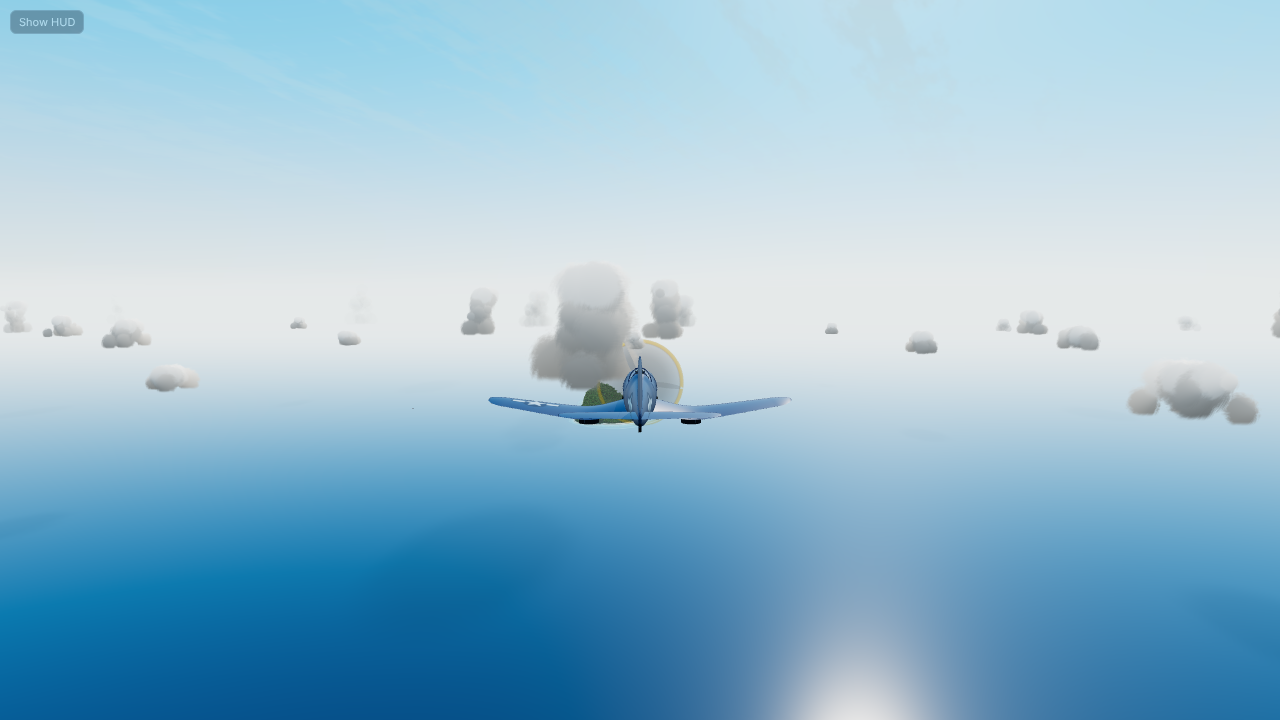
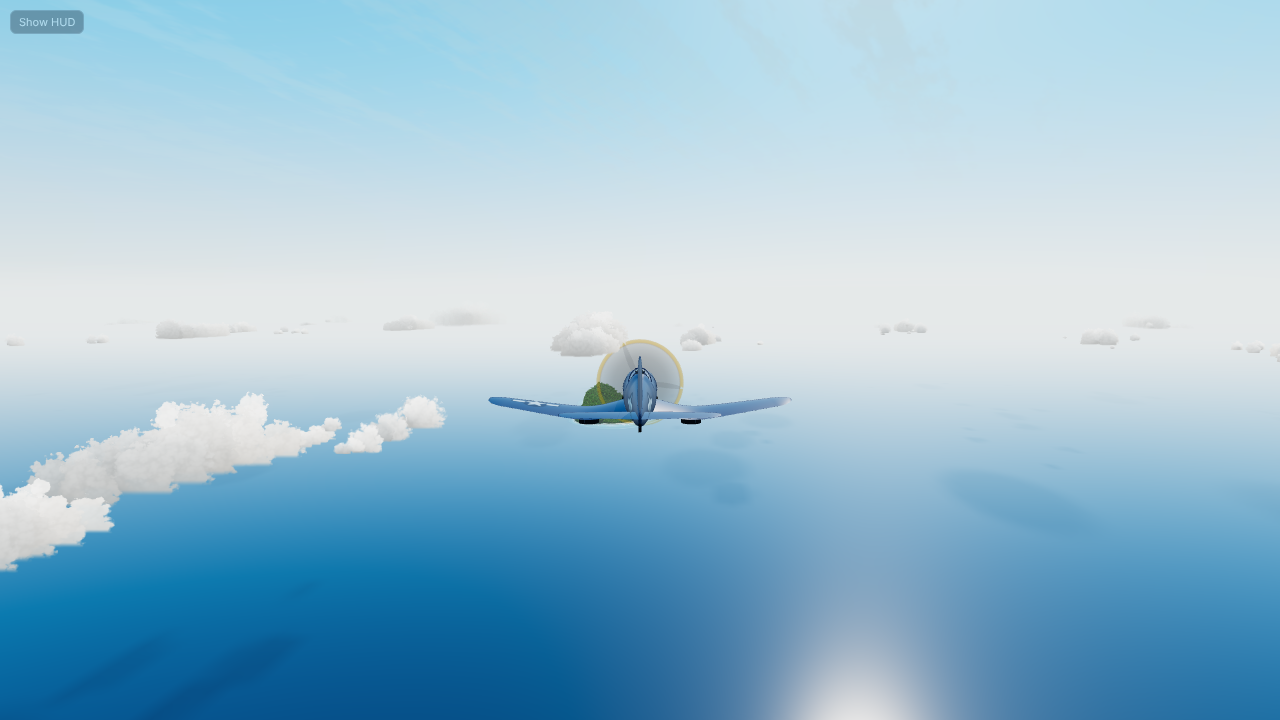
clouds

diff --git a/lib/longwind-world/src/cumulus.js b/lib/longwind-world/src/cumulus.js
@@ -3,17 +3,23 @@
 // Not raymarched (too costly for integrated GPUs). Each cloud is a cluster of soft sphere impostors ("puffs"): one
 // instanced quad per puff, camera-facing, with a sphere normal reconstructed per pixel. What makes them read as cumulus
 // instead of smoke:
-//   - real scale: bases at one condensation level (flat bottoms, cut per pixel), 300 m–1.5 km across, humilis /
-//     mediocris / congestus heights
+//   - real shapes and grouping: each cloud is a long low loaf (mostly 0.25-0.5 as tall as wide) on a flat base, with a
+//     few broad humps and cauliflower only along the upper edge; clouds come in families stretched along `streets`
+//     (radians): a dominant cloud, a loose row of neighbours that sometimes touch, and ragged scraps; `towers` of them
+//     (default 4%) carry a congestus turret
+//   - one noise field per cloud: every puff cuts its edge from the same lumps (300 m / 120 m / 45 m), sampled in a
+//     camera-facing frame that stays level and is anchored at the cloud's centre, so puffs merge into one surface
+//     instead of reading as separate balls; octaves fade once they're under a few pixels
 //   - sunlight with self-shadowing: per-puff transmittance toward the sun, precomputed on the CPU by marching through
-//     the other puffs (re-baked when the sun moves), plus a per-pixel term for the puff's own far side
-//   - grey-blue bases (ambient from the sea below, darker low in the cloud), bright sun-facing cauliflower tops
+//     the other puffs (re-baked when the sun moves); shaded sides stay bright (multiple scattering), lumps lighter
+//     than the crevices between them
+//   - grey-blue bases (ambient from the sea below), bright sun-facing tops
 //   - a silver lining (Henyey–Greenstein forward scatter) on thin edges when you look toward the sun
-//   - edges eroded by Long Wind's baked cloud noise (cellular + detail), locked to world space so they don't swim
 // Lighting ideas (lit/shade split, silver lining, aerial haze) follow Long Wind's painted clouds (src/world/sky.js,
 // github.com/jbang2004/long-wind, MIT). The impostor field itself is new.
 //
-//   const cu = createCumulus(THREE, { renderer, noise, tile: 24000, seaY: 0, base: 620, quality: 'med', seed: 7 })
+//   const cu = createCumulus(THREE, { renderer, noise, tile: 24000, seaY: 0, base: 620, quality: 'med', seed: 7,
+//                                     streets: 0.35, towers: 0.04 })
 //   scene.add(cu.mesh)
 //   cu.update(camera, anchor, { sunDir, sunCol, skyTop, skyBot })    — every frame (anchor: where the field centres)
 //   cu.clusters[i].op = 0..1                                          — host fade per cloud (storms, tile edges are automatic)
@@ -24,7 +30,7 @@
 //
 // The material includes three's fog chunks after tone mapping (fog blends in display space, as three does for every
 // built-in material), so distant clouds melt into the same haze as the terrain and sea.
-const Q = { low: { clusters: 70, puffK: 0.55 }, med: { clusters: 105, puffK: 0.75 }, high: { clusters: 150, puffK: 1 } };
+const Q = { low: { clusters: 70, puffK: 0.55, puffs: 2600 }, med: { clusters: 105, puffK: 0.75, puffs: 4300 }, high: { clusters: 150, puffK: 1, puffs: 6700 } };
 const TEXW = 256;
 
 function rngOf(seed) {
@@ -39,7 +45,7 @@ varying vec3 vC;          // puff centre (world)
 varying float vR;         // puff radius
 varying vec4 vCl;         // cluster centre at mid-height (xyz), base altitude (w)
 varying vec3 vExt;        // cluster half extents
-varying vec4 vInfo;       // sun transmittance, ambient occlusion, -, seed
+varying vec4 vInfo;       // sun transmittance, ambient occlusion, rag (0 body … 1 scrap), seed
 varying float vA;         // opacity after fades
 #include <fog_pars_vertex>
 ivec2 lwTc(float i, int k) { int n = int(i + 0.5) * 2 + k; return ivec2(n % ${TEXW}, n / ${TEXW}); }
@@ -58,7 +64,7 @@ void main() {
   vC = center; vR = r;
   vCl = vec4(c0.x, c0.y + c1.y, c0.z, c0.y);
   vExt = c1.xyz;
-  vInfo = vec4(p1.y, p1.z, 0.0, p1.w);
+  vInfo = vec4(p1.y, p1.z, c1.w, p1.w);
   vec4 mvPosition = viewMatrix * vec4(wp, 1.0);
   gl_Position = projectionMatrix * mvPosition;
   if (vA < 0.004) gl_Position = vec4(2.0, 2.0, 2.0, 1.0);    // culled: off the raster
@@ -88,40 +94,55 @@ void main() {
   vec3 Ns = normalize(right * vUv.x + up * vUv.y + toCam * (nz + 0.05));
   vec3 P = vC + Ns * vR;                                   // sphere surface point
   vec3 Qp = vC + (right * vUv.x + up * vUv.y) * vR;        // point on the impostor plane
-  // edge erosion: world-locked cellular + detail noise, so the cauliflower doesn't swim as you fly past
-  // lobes scale with the puff; the fine detail is fixed in metres so a cloud stays crisp when you're close to it
-  vec2 wq = P.xz + vec2(P.y * 0.61, -P.y * 0.43);
-  float lobe = texture2D(tNoise, wq / (vR * 3.4) + vInfo.w * 7.13 + vec2(uTime * 0.0004, 0.0)).b;
-  float fine = mix(texture2D(tNoise, wq / 140.0 + 0.37).a,                       // tops: horizontal projection
-                   texture2D(tNoise, vec2(P.x * 0.8 - P.z * 0.6, P.y) / 140.0 + 0.71).a,   // sides: vertical (no streaks)
-                   smoothstep(0.35, 0.75, 1.0 - abs(Ns.y)));
-  float ero = lobe * 0.65 + fine * 0.35;
-  float e0 = 0.5 + 0.38 * (ero - 0.5);
-  float a = 1.0 - smoothstep(e0, e0 + 0.32, d);
+  vec3 Nc = (P - vCl.xyz) / max(vExt, vec3(1.0));
+  vec3 Ncn = normalize(Nc);
+  // ONE field for the whole cloud: every puff cuts its edge from the same lumps, so the cauliflower comes from the noise
+  // and not from the puffs (per-puff noise made each one a separately wrapped ball). Impostors have no real surface to
+  // project onto (top/side projections streaked and ringed), so the field lives in a frame that faces the camera,
+  // stays level with the horizon (banking doesn't drag it) and is anchored at the cloud's centre: overlapping puffs
+  // agree exactly, nothing stretches, and the pattern only turns as you fly around the cloud.
+  vec3 cdir = normalize(vCl.xyz - cameraPosition);
+  vec3 cR = normalize(cross(cdir, vec3(0.0, 1.0, 0.0)) + vec3(1e-4, 0.0, 0.0));
+  vec3 cU = cross(cR, cdir);
+  vec2 fq = vec2(dot(Qp - vCl.xyz, cR), dot(Qp - vCl.xyz, cU)) + vCl.xz * 0.37 + vec2(uTime * 0.35, 0.0);
+  float o1 = texture2D(tNoise, fq / 300.0).b;
+  float o2 = texture2D(tNoise, fq / 120.0 + 0.31).b;
+  float o3 = texture2D(tNoise, fq / 45.0 + 0.71).a;
+  // octaves smaller than ~8 px fade to their mean: far clouds keep the big lumps, lose the sub-pixel sparkle
+  float mpp = max(length(dFdx(Qp)), length(dFdy(Qp)));           // metres per pixel (planar: smooth, no noise)
+  float w2 = 1.0 - smoothstep(120.0 / 16.0, 120.0 / 6.0, mpp), w3 = 1.0 - smoothstep(45.0 / 24.0, 45.0 / 10.0, mpp);
+  float field = o1 * 0.62 + mix(0.5, o2, w2) * 0.3 + mix(0.5, o3, w3) * 0.08;   // smooth bulges: the fine octave only breaks the outline
+  float hF = clamp((P.y - vCl.w) / max(2.0 * vExt.y, 1.0), 0.0, 1.0);
+  // density = puff kernel + field: edges move by up to ~45% of the radius; crisp on the upper cloud, softer below
+  float D = (1.08 - d) + (0.95 + 0.35 * vInfo.z) * (field - 0.5);
+  float soft = mix(mix(0.26, 0.09, smoothstep(0.15, 0.6, hF)), 0.4, vInfo.z);   // scraps: soft and ragged all over
+  float a = smoothstep(0.0, max(soft, fwidth(D) * 1.5), D);      // never narrower than ~1.5 px: no stair-stepped edges
   // flat base at the condensation level
   a *= smoothstep(vCl.w - 0.02 * vR, vCl.w + 0.2 * vR, min(Qp.y, P.y + 0.15 * vR));
   a *= uDensity * vA;
   if (a < 0.004) discard;
 
-  vec3 Nc = (P - vCl.xyz) / max(vExt, vec3(1.0));
-  vec3 N = normalize(normalize(Nc) * 0.7 + Ns * 0.3);       // mostly the whole cloud's shape: no bubble-wrap
+  // surface normal: the whole cloud's shape. The lumps light through the cavity term below, read from the field
+  // itself (a screen-space bump from the noise flickered in 2x2 blocks).
+  vec3 N = Ncn;
+  float cav = mix(0.88, 1.06, smoothstep(0.3, 0.75, field));
   vec3 L = uSunDir;
-  float hF = clamp((P.y - vCl.w) / max(2.0 * vExt.y, 1.0), 0.0, 1.0);
-  float diff = clamp(dot(N, L) * 0.55 + 0.45, 0.0, 1.0);
-  float selfS = mix(0.62, 1.0, smoothstep(-0.45, 0.55, dot(Ns, L)));
-  float sunT = mix(0.4, 1.0, vInfo.x) * selfS;            // light that scattered through still arrives (multiple scattering)
+  float diff = clamp(dot(N, L) * 0.4 + 0.6, 0.0, 1.0);
+  float selfS = mix(0.78, 1.0, smoothstep(-0.45, 0.55, dot(N, L)));      // the cloud's side away from the sun, not each puff's
+  float sunT = mix(0.55, 1.0, vInfo.x) * selfS;            // light that scattered through still arrives (multiple scattering)
   vec3 col = uSunCol * uSunGain * diff * sunT;
   // light scattered all through the cloud (bases glow grey, not black); weaker and less coloured with a low sun
   vec3 ms = mix(uSunCol, vec3(dot(uSunCol, vec3(0.2126, 0.7152, 0.0722))), 0.55) * clamp(L.y * 2.5, 0.2, 1.0);
-  col += ms * uSunGain * 0.17 * mix(0.55, 1.0, vInfo.x);
+  col += ms * uSunGain * 0.24 * mix(0.6, 1.0, vInfo.x);   // cumulus is bright all through: shaded sides ~60-70% of lit
   col += mix(uSkyBot, uSkyTop, clamp(N.y * 0.5 + 0.5, 0.0, 1.0)) * vInfo.y * mix(0.72, 1.0, hF);
   col *= mix(0.86, 1.0, smoothstep(0.0, 0.3, hF));         // grey base
+  col *= mix(1.0, cav, smoothstep(0.05, 0.35, hF));          // crevices between lumps darker, lumps catch the light
   // silver lining: forward scatter through thin edges when looking toward the sun
   vec3 V = normalize(P - cameraPosition);
   float mu = dot(V, L), g = 0.7;
   float hg = (1.0 - g * g) / pow(1.0 + g * g - 2.0 * g * mu, 1.5) * 0.0796;
   // only the whole cloud's silhouette glows (per-puff rims read as bubble-wrap), even when the body is in its own shadow
-  float rim = pow(1.0 - abs(dot(normalize(Nc), V)), 2.0) * smoothstep(0.3, 1.05, d);
+  float rim = pow(1.0 - abs(dot(Ncn, V)), 2.0) * (1.0 - smoothstep(0.0, 0.45, D));
   col += uSunCol * hg * rim * mix(0.45, 1.0, vInfo.x) * uSilver;
   gl_FragColor = vec4(col, a);
   #include <tonemapping_fragment>
@@ -130,46 +151,69 @@ void main() {
 }`;
 
 export function createCumulus(THREE, {
-  renderer, noise, tile = 24000, seaY = 0, base = 620, quality = 'med', seed = 7, coverage = 1,
+  renderer, noise, tile = 24000, seaY = 0, base = 620, quality = 'med', seed = 7, coverage = 1, streets = 0.35, towers = 0.04,
 } = {}) {
   const q = Q[quality] ?? Q.med;
   const rnd = rngOf(seed * 7919 + 13);
   const clusters = [];      // {bx, bz, base, w, h, d, op, x, z, puffs: [first, count]}
   const puffs = [];         // {cl, ox, oy, oz, r, occ, amb, seed}
 
-  function buildCluster(bx, bz, w, h, baseAlt) {
-    const ci = clusters.length, d = w * (0.6 + rnd() * 0.3), first = puffs.length;
-    const k = q.puffK, put = (ox, oy, oz, r) => puffs.push({ cl: ci, ox, oy, oz, r, occ: 1, amb: 1, seed: rnd() });
-    // base ring: wide flat puffs sitting on the condensation level
-    const nb = Math.max(3, Math.round((5 + rnd() * 4) * k));
-    for (let i = 0; i < nb; i++) {
-      const a = (i + rnd() * 0.6) / nb * Math.PI * 2, f = 0.45 + 0.5 * rnd(), r = w * (0.15 + 0.07 * rnd());
-      put(Math.cos(a) * w * 0.33 * f, r * 0.62, Math.sin(a) * d * 0.33 * f, r);
-    }
-    put(0, w * 0.17, 0, w * 0.25);                                           // core
-    // body: rising, narrowing
-    const nm = Math.max(2, Math.round((3 + rnd() * 4) * k * (0.6 + h / w)));
-    for (let i = 0; i < nm; i++) {
-      const a = rnd() * Math.PI * 2, f = rnd() * 0.24, r = w * (0.12 + 0.08 * rnd());
-      put(Math.cos(a) * w * f, h * (0.3 + 0.32 * rnd()), Math.sin(a) * d * f, r);
-    }
-    // tower: a broad column, two or three puffs per level, shrinking upward (single-puff columns read as snowmen)
-    let ty = h * 0.3, tx = 0, tz = 0, guard = 0;
-    while (ty < h - w * 0.08 && guard++ < 12) {
-      const R = w * (0.2 + 0.05 * rnd()) * (1 - 0.38 * ty / h);
-      ty = Math.min(ty + R * 0.55, h - R * 0.85);
-      const nl = R > w * 0.15 ? 2 + (rnd() < 0.4 ? 1 : 0) : 1, a0 = rnd() * Math.PI * 2;
-      for (let j = 0; j < nl; j++) {
-        const aj = a0 + j / nl * Math.PI * 2, off = nl > 1 ? R * 0.5 : 0;
-        put(tx + Math.cos(aj) * off, ty - rnd() * R * 0.15, tz + Math.sin(aj) * off, R * (0.82 + 0.18 * rnd()));
+  // One cloud, built as fair-weather cumulus actually looks: a long low loaf on a flat base, a few broad humps of
+  // different heights, and cauliflower only along the upper edge. Built along its own long axis, then turned to `ang`.
+  //   w: length along the axis, h: top height, rag: 0 a solid body … 1 a soft ragged scrap, tower: a congestus turret
+  function buildCluster(bx, bz, w, h, baseAlt, { ang = 0, rag = 0, tower = false } = {}) {
+    const ci = clusters.length, first = puffs.length, k = q.puffK;
+    const d = w * (0.38 + rnd() * 0.2);
+    const local = [], put = (u, y, v, r) => local.push([u, y, v, r]);
+    if (rag > 0.5) {                                                      // fragment: a few low puffs, no structure
+      const n = 2 + Math.round(rnd() * 3 * Math.max(0.6, k));
+      for (let i = 0; i < n; i++) {
+        const r = h * (0.45 + rnd() * 0.35);
+        put((rnd() - 0.5) * (w - r), r * (0.5 + rnd() * 0.3), (rnd() - 0.5) * d * 0.5, r);
       }
-      tx += (rnd() - 0.5) * R * 0.35; tz += (rnd() - 0.5) * R * 0.35;
+    } else {
+      // base layer: wide flat puffs along the whole length (two rows on fat clouds)
+      const rb = h * (0.42 + rnd() * 0.12), step = rb * (1.25 - 0.3 * k), rows = d > rb * 2.2 ? 2 : 1;
+      for (let row = 0; row < rows; row++) for (let u = -w / 2 + rb * 0.8; u <= w / 2 - rb * 0.8; u += step * (0.8 + 0.4 * rnd())) {
+        const taper = 1 - 0.35 * Math.pow(Math.abs(u) / (w / 2), 2);      // ends lower and thinner
+        put(u, rb * 0.55 * taper, (rows > 1 ? (row - 0.5) * d * 0.42 : 0) + (rnd() - 0.5) * d * 0.18, rb * taper);
+      }
+      // humps: 1-4 broad domes of different heights; the tallest is not always in the middle
+      const nh = Math.max(1, Math.min(4, Math.round(w / (h * 2.2) * (0.7 + rnd() * 0.6)))), humps = [];
+      for (let i = 0; i < nh; i++) {
+        const u = (nh === 1 ? (rnd() - 0.5) * 0.3 : (i / (nh - 1) - 0.5) * 0.75 + (rnd() - 0.5) * 0.15) * w;
+        humps.push({ u, top: h * (i === ((rnd() * nh) | 0) ? 1 : 0.55 + rnd() * 0.35), wid: w / nh * (0.45 + rnd() * 0.25) });
+      }
+      if (!humps.some(m => m.top >= h * 0.99)) humps[(rnd() * nh) | 0].top = h;
+      for (const m of humps) {
+        const R = Math.min(m.wid, m.top) * 0.55;
+        const nl = Math.max(1, Math.round((m.top - R) / (R * 0.8)));
+        for (let j = 0; j <= nl; j++) {                                   // a dome: wider low, one crown on top
+          const y = R * 0.6 + (m.top - R * 1.55) * (nl ? j / nl : 1), f = 1 - 0.3 * (nl ? j / nl : 1);
+          const pair = j < nl && R * f > h * 0.18;
+          for (const s of pair ? [-1, 1] : [0]) put(m.u + s * R * 0.45 + (rnd() - 0.5) * R * 0.2, y, (rnd() - 0.5) * d * 0.2, R * f * (0.9 + rnd() * 0.15));
+        }
+      }
+      // cauliflower: small puffs only along the upper envelope
+      const env = (u) => Math.max(h * 0.4, ...humps.map(m => m.top * Math.max(0, 1 - Math.pow((u - m.u) / (m.wid * 1.1), 2))));
+      const nc = Math.round((3 + w / 140) * k);
+      for (let i = 0; i < nc; i++) {
+        const u = (rnd() - 0.5) * w * 0.85, r = h * (0.12 + rnd() * 0.1);
+        put(u, env(u) - r * (0.55 + rnd() * 0.3), (rnd() - 0.5) * d * 0.35, r);
+      }
+      if (tower) {                                                        // rare congestus turret over the tallest hump
+        const m = humps.reduce((a, b) => (b.top > a.top ? b : a));
+        let y = m.top, R = Math.min(m.wid, h) * 0.42;
+        for (let j = 0; j < 3; j++, R *= 0.8) { y += R * 0.75; put(m.u + (rnd() - 0.5) * R * 0.3, y, (rnd() - 0.5) * R * 0.3, R); }
+      }
     }
-    // cauliflower detail: small puffs on the upper surface
-    const nd = Math.round((2 + rnd() * 4) * k);
-    for (let i = 0; i < nd; i++) {
-      const a = rnd() * Math.PI * 2, f = 0.12 + rnd() * 0.2, r = w * (0.06 + 0.04 * rnd());
-      put(Math.cos(a) * w * f, h * (0.35 + 0.4 * rnd()), Math.sin(a) * d * f, r);
+    // turn to the family's axis; extents from what was built
+    const ca = Math.cos(ang), sa = Math.sin(ang);
+    let ex = 1, ez = 1, ey = 1;
+    for (const [u, y, v, r] of local) {
+      const ox = u * ca - v * sa, oz = u * sa + v * ca;
+      puffs.push({ cl: ci, ox, oy: y, oz, r, occ: 1, amb: 1, seed: rnd() });
+      ex = Math.max(ex, Math.abs(ox) + r * 0.7); ez = Math.max(ez, Math.abs(oz) + r * 0.7); ey = Math.max(ey, y + r * 0.85);
     }
     // settle: any puff not resting on a lower one slides toward the nearest lower puff until they overlap
     const mine = puffs.slice(first).sort((a, b) => a.oy - b.oy);
@@ -187,18 +231,33 @@ export function createCumulus(THREE, {
         p.ox = best.ox + dx / dd * want; p.oy = best.oy + dy / dd * want; p.oz = best.oz + dz / dd * want;
       }
     }
-    clusters.push({ bx, bz, base: baseAlt, w, h, d, op: 1, x: bx, z: bz, first, count: puffs.length - first });
+    clusters.push({ bx, bz, base: baseAlt, w: ex * 2, h: ey, d: ez * 2, rag, op: 1, x: bx, z: bz, first, count: puffs.length - first });
   }
 
-  // field: humilis (flat), mediocris, a few congestus; jittered grid so clouds never pile up
-  const n = Math.round(q.clusters * coverage), grid = Math.ceil(Math.sqrt(n)), cell = tile / grid;
-  for (let gz = 0, made = 0; gz < grid; gz++) for (let gx = 0; gx < grid && made < n; gx++, made++) {
-    const bx = -tile / 2 + (gx + 0.15 + 0.7 * rnd()) * cell, bz = -tile / 2 + (gz + 0.15 + 0.7 * rnd()) * cell;
-    const kind = rnd();
-    const w = kind < 0.6 ? 320 + rnd() * 520 : kind < 0.94 ? 550 + rnd() * 700 : 700 + rnd() * 600;
-    const h = w * (kind < 0.6 ? 0.38 + rnd() * 0.2 : kind < 0.94 ? 0.62 + rnd() * 0.3 : 1.0 + rnd() * 0.35);
-    buildCluster(bx, bz, w, h, base + (rnd() - 0.5) * 80);
-  }
+  // field: families, as fair-weather cumulus actually sits — a dominant cloud stretched along the wind, a loose row of
+  // neighbours that sometimes touch and chain, and scraps around them; a few towers. Fills the tier's puff budget.
+  const budget = q.puffs * coverage, nFam = Math.max(4, Math.round(q.clusters * 0.3 * coverage));
+  const grid = Math.ceil(Math.sqrt(nFam)), cell = tile / grid, cap = (n) => puffs.length < budget && clusters.length < 1000 - n;
+  const mainH = (w, tower) => w * (tower ? 0.5 + rnd() * 0.2 : 0.26 + rnd() * 0.2);
+  for (let pass = 0; pass < 3 && cap(8); pass++)
+    for (let gz = 0; gz < grid && cap(8); gz++) for (let gx = 0; gx < grid && cap(8); gx++) {
+      if (pass > 0 && rnd() < 0.5) continue;                              // later passes: sparser, in the gaps
+      const cx = -tile / 2 + (gx + 0.1 + 0.8 * rnd()) * cell, cz = -tile / 2 + (gz + 0.1 + 0.8 * rnd()) * cell;
+      const ang = streets + (rnd() - 0.5) * 0.5, ca = Math.cos(ang), sa = Math.sin(ang);
+      const W = (450 + 1100 * Math.pow(rnd(), 1.6)) * (pass ? 0.7 : 1), tower = rnd() < towers, b0 = base + (rnd() - 0.5) * 70;
+      buildCluster(cx, cz, W, mainH(W, tower), b0, { ang, tower });
+      let along = W / 2;                                                  // the row: alternately ahead and behind
+      for (let i = 0, nr = (rnd() * 3.2) | 0; i < nr && cap(4); i++) {
+        const w = W * (0.3 + rnd() * 0.45), gap = (rnd() < 0.45 ? -0.15 : 0.1 + rnd() * 0.5) * w, s = i % 2 ? -1 : 1;
+        const u = s * (along + gap + w / 2), v = (rnd() - 0.5) * W * 0.9;   // a loose row, not a string
+        if (s < 0) along += gap + w;
+        buildCluster(cx + u * ca - v * sa, cz + u * sa + v * ca, w, mainH(w, false), b0 + (rnd() - 0.5) * 60, { ang: ang + (rnd() - 0.5) * 0.5 });
+      }
+      for (let i = 0, nf = 2 + ((rnd() * 5) | 0); i < nf && cap(2); i++) {   // scraps, mostly downwind
+        const w = 70 + rnd() * 190, r = W * (0.55 + rnd() * 0.9), a = ang + (rnd() < 0.7 ? 0 : Math.PI) + (rnd() - 0.5) * 1.4;
+        buildCluster(cx + Math.cos(a) * r, cz + Math.sin(a) * r, w, w * (0.35 + rnd() * 0.25), b0 + (rnd() - 0.3) * 60, { ang: ang + (rnd() - 0.5), rag: 1 });
+      }
+    }
 
   // GPU data: puffs (2 texels each), clusters (2 texels each), sorted index attribute
   const MAXP = 8192, MAXC = 1024;
@@ -286,7 +345,7 @@ export function createCumulus(THREE, {
       c.x = anchor.x + dx; c.z = anchor.z + dz;
       const edge = 1 - smoothstep(0.8, 0.98, Math.max(Math.abs(dx), Math.abs(dz)) / (tile / 2));
       c.vis = c.op * edge;
-      clusData.set([c.x, seaY + c.base, c.z, c.vis, c.w * 0.5, c.h * 0.5, c.d * 0.5, 0], i * 8);
+      clusData.set([c.x, seaY + c.base, c.z, c.vis, c.w * 0.5, c.h * 0.5, c.d * 0.5, c.rag ?? 0], i * 8);
     });
     tClus.needsUpdate = true;
     // visible puffs, sorted far to near
@@ -325,12 +384,14 @@ export function createCumulus(THREE, {
   }
 
   function casters() {
-    return clusters.map(c => ({ x: c.x, z: c.z, y0: seaY + c.base, y1: seaY + c.base + c.h, rx: c.w * 0.42, rz: c.d * 0.42, op: c.vis ?? c.op }));
+    // biggest first: the shadow map takes casters until it's full, and the scraps shouldn't crowd out the bodies
+    return clusters.map(c => ({ x: c.x, z: c.z, y0: seaY + c.base, y1: seaY + c.base + c.h, rx: c.w * 0.42, rz: c.d * 0.42, op: c.vis ?? c.op }))
+      .sort((a, b) => b.rx * b.rz - a.rx * a.rz);
   }
 
-  function addCluster({ x, z, w = 700, h = 600, base: b = base }) {
+  function addCluster({ x, z, w = 700, h = 300, base: b = base, ang = streets, rag = 0, tower = false }) {
     if (puffs.length > MAXP - 64 || clusters.length >= MAXC) return -1;
-    buildCluster(x, z, w, h, b);
+    buildCluster(x, z, w, h, b, { ang, rag, tower });
     sunPrev.set(0, -1, 0);   // force a re-bake of transmittance
     return clusters.length - 1;
   }

diff --git a/lab/corsair/index.html b/lab/corsair/index.html
@@ -1599,7 +1599,7 @@ const GRASS = (() => {
 const _gw = new THREE.Vector2();
 const CU_BASE = 610, CU_TOPS = 1500;               // m above the sea: bases ~2,000 ft, tallest tops ~4,900 ft
 const CU = createCumulus(THREE, {renderer, noise: cloudNoise, tile: 26000, seaY: WATER_Y, base: CU_BASE, quality: QUAL.tier, seed: 11});
-RIDGE.forEach(([rx, rz], i) => { if (i % 2 === 0) CU.addCluster({x: ISLE.x + rx + 140, z: ISLE.z + rz - 60, w: 640 + 140 * (i % 3), h: 480 + 70 * i, base: CU_BASE + 30}); });
+RIDGE.forEach(([rx, rz], i) => { if (i % 2 === 0) CU.addCluster({x: ISLE.x + rx + 140, z: ISLE.z + rz - 60, w: 760 + 160 * (i % 3), h: 300 + 30 * i, base: CU_BASE + 30}); });   // the ridge's own clouds: broad, a little taller than the field's
 scene.add(CU.mesh);
 const skyOver = createSkyOverlay(THREE, {noise: cloudNoise});
 scene.add(skyOver.mesh);

diff --git a/lib/longwind-world/README.md b/lib/longwind-world/README.md
@@ -9,7 +9,7 @@ for that game but not for an aircraft that flies past and through them. The pack
 
 | module | what | from Long Wind |
 |---|---|---|
-| `createCumulus` | Fair-weather cumulus you can fly past and through. Each cloud is a cluster of lit sphere impostors (one instanced quad per puff). Real scale: flat bases at the condensation level, 300 m–1.5 km across, humilis / mediocris / congestus. Lighting: per-puff sun transmittance (CPU march through the cluster, re-baked when the sun moves), grey bases, bright cauliflower tops, a silver lining toward the sun. Edges are eroded by world-locked noise. Sorted far to near each frame. | Lighting approach and noise texture; the impostor field is new |
+| `createCumulus` | Fair-weather cumulus you can fly past and through. Each cloud is a cluster of lit sphere impostors (one instanced quad per puff), built as a long low loaf on a flat base with broad humps and cauliflower only along the top. Clouds come in families along the wind (`streets`): a dominant cloud, a loose row of neighbours that sometimes chain, and ragged scraps; a few (`towers`) build a congestus turret. One noise field per cloud, so the puffs merge into one surface instead of reading as balls. Lighting: per-puff sun transmittance (CPU march, re-baked when the sun moves), bright shaded sides from multiple scattering, grey bases, a silver lining toward the sun. Sorted far to near each frame. | Lighting approach and noise texture; the impostor field is new |
 | `createCloudShadow` | Each cloud body projected along the sun into a small top-down map. `patch(material)` makes lit materials (standard, physical, lambert, phong) scale the sun's direct light by it. Chains existing `onBeforeCompile` hooks. | Long Wind darkens the sun under a procedural noise deck; here the shadows come from the actual clouds |
 | `installHeightFog` | Exponential height fog for every material that uses three's fog chunks, keeping `FogExp2` semantics. The fog distance is the view depth times the mean density `exp(-h/H)` along the ray, so haze thins with altitude. | The exact height-fog integral in `atmosphere.js` |
 | `createSkyOverlay` | High cirrus, a painted band of distant cumulus just above the horizon, and the night sky (two star layers, the Milky Way, the moon with maria). A transparent dome over any base sky. | Long Wind's `sky.js` GLSL, unchanged apart from uniforms |
@@ -91,12 +91,12 @@ nothing, so these are GPU-independent counts.
 
 | view | cloud fragments per pixel (screen average) | draw calls (whole frame) |
 |---|---|---|
-| air start, 1,000 ft | 1.2 (was 0.45 with sprite puffs) | 618 (was 734) |
-| dogfight altitude, 4,000 ft | 0.55 (was 0.2) | 700 (was 1,140) |
+| air start, 1,000 ft | 0.22 (sprite puffs were 0.45) | 618 (was 734) |
+| dogfight altitude, 4,000 ft | 0.23 (was 0.2) | 700 (was 1,140) |
 | island from 5,000 ft | — | 621 (was 1,499) |
-| right beside a big cloud | 3.7 over 52% of the screen (worst case) | — |
+| right beside a big cloud | 1.8 over 52% of the screen (worst case) | — |
 
-Fill goes up because the clouds are now real-sized. Draw calls go down because the whole field is one instanced
+Fill stays low: the clouds are real-sized, but long and low, so most puffs are small and the sky between families is open. Draw calls go down because the whole field is one instanced
 draw; the old sprites were one call each. The fragment shader does 3 noise texture taps and a few dozen arithmetic operations.
 Puffs fade out inside about 1.6 radii of the camera, so flying into a cloud doesn't flood the screen. Hosts handle
 the whiteout with fog via `inside()`.
@@ -105,7 +105,7 @@ Ground pieces, same measurement: the grass ring is one draw call and one program
 about 36k triangles visible, all culled to nothing off grass). `patchFoliage` adds a handful of ALU to leaf fragments,
 `patchGroundDetail` adds 3 noise taps to terrain fragments. Whole-frame draw calls at the strip went from 500 to 501.
 
-Quality tiers: `low` 70 clouds / ~2,600 puffs, `med` 105 / ~4,300, `high` 150 / ~6,700. On integrated GPUs the
+Quality tiers (puff budgets): `low` ~2,200 puffs in ~100 clouds plus ~190 scraps, `med` ~4,200 in ~190 + ~320, `high` ~5,600 in ~210 + ~380. On integrated GPUs the
 other big lever is the host's pixel ratio: fill scales with it.
 
 ## Tests

diff --git a/lab/corsair/README.md b/lab/corsair/README.md
@@ -74,26 +74,28 @@ The fog and horizon haze are matched to the sky: the sky's horizon colour is sam
 
 The sky, the fair-weather clouds and the haze come from [`lib/longwind-world`](../../lib/longwind-world/), a small library of sky and atmosphere pieces taken from [长风 Long Wind](https://github.com/jbang2004/long-wind) (MIT) and adapted for flying.
 
-- **Cumulus at real scale.** Trade-wind cumulus with flat bases at about 2,000 ft. They're 300 m to 1.3 km across: mostly small and medium, with the odd towering congestus up to about 5,000 ft, and a few building over the island's ridge. Each cloud is a cluster of lit sphere impostors with:
-  - sunlight that self-shadows through the cloud
+- **Cumulus at real scale.** Trade-wind cumulus with flat bases at about 2,000 ft. Most are long, low loaves 300 m to 1.5 km across and a quarter to a half as tall as they are wide, with a few broad humps and cauliflower along the top. They come in families lined up roughly with the wind: a dominant cloud, a loose row of neighbours that sometimes merge into a chain, and ragged scraps around them. About one in 25 builds a congestus turret, and a few broad ones sit over the island's ridge. Each cloud is a cluster of lit sphere impostors with:
+  - one noise field for the whole cloud, so the puffs merge into one lumpy surface instead of reading as balls
+  - sunlight that self-shadows through the cloud, with shaded sides that stay bright, as real cumulus does
   - grey bases and bright cauliflower tops
   - a silver lining when you look toward the sun
-  - edges broken up by Long Wind's baked cloud noise
 
-  The field tiles around you forever. The dogfight at 4,000 ft now happens among the towers.
+  The field tiles around you forever.
 - **Flying into a cloud.** Inside a cumulus the world goes white. Puffs near the camera fade out and fog takes over, the same way the storm deck does.
 - **Cloud shadows.** Each cloud casts its shadow down-sun onto the sea, the island and the aircraft. Shadows weaken as the sun gets low and are gone under the storm deck.
 - **Haze that thins with height.** The fog is exponential with altitude (scale height 1,100 m), not uniform. From 4,000 ft the sea below is deep blue instead of milky, and the horizon band thins as you climb. In-cloud and in-deck whiteout stay at full strength at any height.
 - **A tropical sky.** The open sky is pre-saturated (Long Wind's trick for keeping blues through the tone mapping), the zenith is deeper, and turbidity is lower. Faint high cirrus drifts with the wind.
 - **The deck tops** are lit billows that catch the sun, instead of a flat sheet, and fade into the haze at a distance.
 
-Quality is picked from the GPU (Intel UHD 6xx gets `low`, Iris and newer Intel `med`, discrete GPUs `high`). Force it with `?q=low`, `?q=med` or `?q=high`. The tiers set the number of clouds and puffs: about 2,600 / 4,300 / 6,700 puffs.
+Quality is picked from the GPU (Intel UHD 6xx gets `low`, Iris and newer Intel `med`, discrete GPUs `high`). Force it with `?q=low`, `?q=med` or `?q=high`. The tiers set the puff budget: about 2,200 / 4,200 / 5,600 puffs.
 
 ![Among the cumulus at 4,000 ft](docs/screenshots/cumulus-4000ft.png)
 
 ![The island from 5,000 ft, cloud shadow on the sea](docs/screenshots/island-cloud-shadows.png)
 
-![A towering cumulus over the approach](docs/screenshots/noon-cumulus.png)
+![Cumulus over the approach](docs/screenshots/noon-cumulus.png)
+
+![Fair-weather cumulus from the sea](docs/screenshots/fair-weather-cumulus.png)
 
 ![Dusk squall](docs/screenshots/dusk-squall.png)
 
